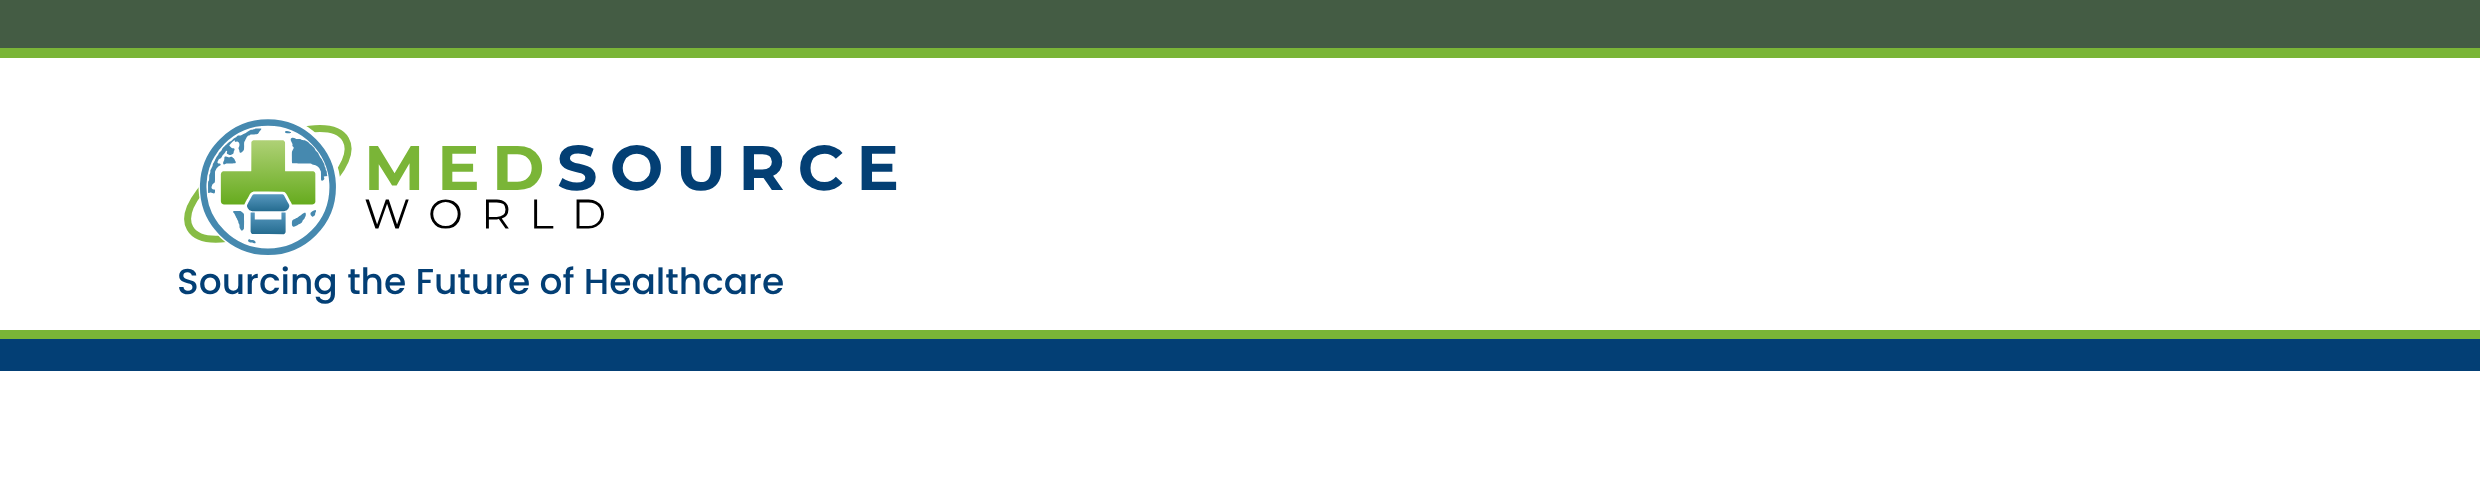
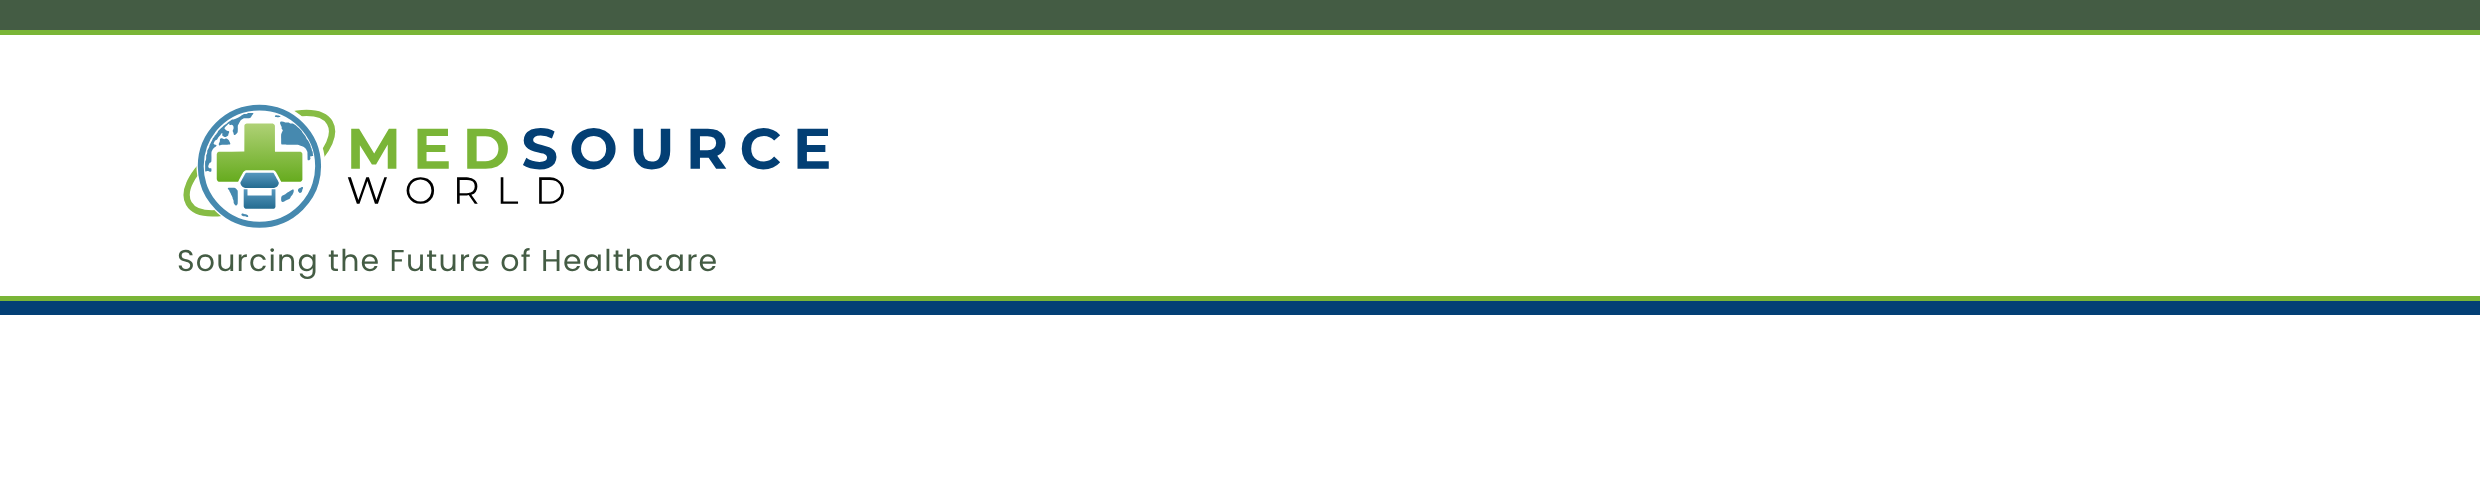
Sleeker letterhead template, footer without phone number
Claude-Session: https://claude.ai/code/session_01EwtCANkxHHEVNitzNHyJK3

Changed region(s): [[0.0, 0.21, 1.0, 0.63], [0.0, 0.66, 1.0, 0.75], [0.0, 0.06, 1.0, 0.12]]

diff --git a/print/2026-10-legal-letterhead-template/source.html b/print/2026-10-legal-letterhead-template/source.html
@@ -7,66 +7,65 @@
 @font-face{font-family:"Poppins";font-weight:400;src:url("assets/Poppins-Regular.ttf")}
 @font-face{font-family:"Poppins";font-weight:500;src:url("assets/Poppins-Medium.ttf")}
 @font-face{font-family:"Poppins";font-weight:700;src:url("assets/Poppins-Bold.ttf")}
-:root{--forest:#445C44;--green:#7AB537;--navy:#033F75;--white:#FFFFFF}
+:root{--forest:#445C44;--green:#7AB537;--navy:#033F75;--slate:#5A6470;--white:#FFFFFF}
 *{box-sizing:border-box;margin:0;padding:0}
 body{background:#888;font-family:"Poppins",sans-serif;display:flex;flex-direction:column;gap:40px;padding:40px;width:2560px}
 .piece{position:relative;width:2480px;background:var(--white);overflow:hidden}
 .band{position:absolute;left:0;width:2480px}
-.tag{position:absolute;white-space:nowrap;font-weight:500;color:var(--navy)}
+.tag{position:absolute;white-space:nowrap;font-weight:400;color:var(--forest);letter-spacing:.04em}
 
 /* First page header 2480 x 500 */
 #h1{height:500px}
-#h1 .logo{position:absolute;left:177px;top:140px;height:190px}
-#h1 .tag{left:177px;top:330px;font-size:46px;line-height:60px}
-#h1 .addr{position:absolute;right:177px;top:150px;height:190px;display:flex;align-items:center;gap:36px}
-#h1 .addr .txt{font-size:46px;line-height:66px;font-weight:500;color:var(--navy);text-align:right}
-#h1 .addr .txt b{font-weight:700}
-#h1 .pin{width:84px;height:84px;border-radius:50%;background:var(--green);display:flex;align-items:center;justify-content:center;flex:none}
+#h1 .logo{position:absolute;left:177px;top:128px;height:176px}
+#h1 .tag{left:177px;top:322px;font-size:38px;line-height:52px}
+#h1 .addr{position:absolute;right:177px;top:150px;height:150px;display:flex;align-items:center;gap:32px}
+#h1 .addr .txt{font-size:40px;line-height:58px;font-weight:400;color:var(--navy);text-align:right;letter-spacing:.01em}
+#h1 .addr .txt b{font-weight:600;font-family:"Poppins";font-weight:700}
+#h1 .addr .rule{width:5px;height:140px;background:var(--green)}
+#h1 .pin{width:64px;height:64px;border-radius:50%;background:var(--navy);display:flex;align-items:center;justify-content:center;flex:none}
 
-/* Later pages header 2480 x 500, smaller, no address */
+/* Later pages header 2480 x 500 */
 #h2{height:500px}
-#h2 .logo{position:absolute;left:177px;top:112px;height:150px}
-#h2 .tag{left:177px;top:258px;font-size:36px;line-height:48px}
+#h2 .logo{position:absolute;left:177px;top:98px;height:136px}
+#h2 .tag{left:177px;top:240px;font-size:30px;line-height:42px}
 
 /* Footer 2480 x 250 */
 #f{height:250px}
-#f .left{position:absolute;left:177px;top:14px;height:236px;display:flex;flex-direction:column;justify-content:center;color:#fff}
-#f .left .a{font-size:50px;line-height:66px;font-weight:700;letter-spacing:.02em}
-#f .left .b{font-size:36px;line-height:52px;font-weight:400}
-#f .right{position:absolute;right:177px;top:14px;height:236px;display:flex;align-items:center;color:#fff}
-#f .right .lbl{font-size:30px;line-height:40px;font-weight:500;letter-spacing:.14em;text-align:right;color:var(--green)}
-#f .right .num{font-size:64px;line-height:76px;font-weight:700;text-align:right}
+#f .t{position:absolute;top:92px;font-size:34px;line-height:48px;letter-spacing:.06em}
+#f .l{left:177px;color:var(--slate);font-weight:400}
+#f .r{right:177px;color:var(--navy);font-weight:700;letter-spacing:.14em}
 </style>
 </head>
 <body>
 
 <div class="piece" id="h1">
-  <div class="band" style="top:0;height:72px;background:var(--forest)"></div>
-  <div class="band" style="top:72px;height:14px;background:var(--green)"></div>
+  <div class="band" style="top:0;height:40px;background:var(--forest)"></div>
+  <div class="band" style="top:40px;height:6px;background:var(--green)"></div>
   <img class="logo" src="assets/medsource-world.svg" alt="MedSource World">
   <div class="tag">Sourcing the Future of Healthcare</div>
   <div class="addr">
     <div class="txt"><b>209 Riverside Drive</b><br>Provident Village<br>Marikina City, Philippines</div>
-    <div class="pin"><svg width="46" height="46" viewBox="0 0 24 24"><path fill="#fff" d="M12 2a7 7 0 0 0-7 7c0 5.2 7 13 7 13s7-7.8 7-13a7 7 0 0 0-7-7zm0 9.5A2.5 2.5 0 1 1 12 6.5a2.5 2.5 0 0 1 0 5z"/></svg></div>
+    <div class="rule"></div>
+    <div class="pin"><svg width="34" height="34" viewBox="0 0 24 24"><path fill="#fff" d="M12 2a7 7 0 0 0-7 7c0 5.2 7 13 7 13s7-7.8 7-13a7 7 0 0 0-7-7zm0 9.5A2.5 2.5 0 1 1 12 6.5a2.5 2.5 0 0 1 0 5z"/></svg></div>
   </div>
-  <div class="band" style="top:440px;height:12px;background:var(--green)"></div>
-  <div class="band" style="top:452px;height:48px;background:var(--navy)"></div>
+  <div class="band" style="top:442px;height:6px;background:var(--green)"></div>
+  <div class="band" style="top:448px;height:20px;background:var(--navy)"></div>
 </div>
 
 <div class="piece" id="h2">
-  <div class="band" style="top:0;height:48px;background:var(--forest)"></div>
-  <div class="band" style="top:48px;height:10px;background:var(--green)"></div>
+  <div class="band" style="top:0;height:30px;background:var(--forest)"></div>
+  <div class="band" style="top:30px;height:5px;background:var(--green)"></div>
   <img class="logo" src="assets/medsource-world.svg" alt="MedSource World">
   <div class="tag">Sourcing the Future of Healthcare</div>
-  <div class="band" style="top:330px;height:9px;background:var(--green)"></div>
-  <div class="band" style="top:339px;height:32px;background:var(--navy)"></div>
+  <div class="band" style="top:296px;height:5px;background:var(--green)"></div>
+  <div class="band" style="top:301px;height:14px;background:var(--navy)"></div>
 </div>
 
 <div class="piece" id="f">
-  <div class="band" style="top:0;height:14px;background:var(--green)"></div>
-  <div class="band" style="top:14px;height:236px;background:var(--navy)"></div>
-  <div class="left"><div class="a">MEDSOURCE WORLD</div><div class="b">Importation · Procurement · Distribution</div></div>
-  <div class="right"><div><div class="lbl">CALL / TEXT</div><div class="num">0967 325 3555</div></div></div>
+  <div class="t l">IMPORTATION  ·  PROCUREMENT  ·  DISTRIBUTION</div>
+  <div class="t r">MEDSOURCE WORLD</div>
+  <div class="band" style="top:196px;height:6px;background:var(--green)"></div>
+  <div class="band" style="top:202px;height:48px;background:var(--navy)"></div>
 </div>
 
 </body>
